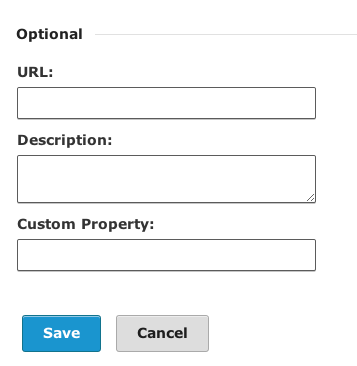
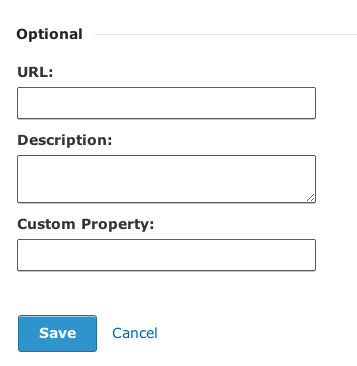
#1234, update forms page in style guide to match demo page.

Changed region(s): [[0.0924, 0.8415, 0.5854, 0.9617], [0.0308, 0.8415, 0.0924, 0.9617]]

diff --git a/forms.html b/forms.html
@@ -151,7 +151,7 @@ label {
     <h3>Top-Aligned Form</h3>
     <p>Below is the default form layout. This is a top label aligned form, where the labels are placed above the input field. See below:</p>
     <p><img src="images/forms-top-align.png" style="border: 1px solid #717171;"></p>
-    <p><a href="demo/forms-top-align.html" class="button">View Demo</a></p>
+    <p><a href="demo/forms-top-align.html">View Demo</a></p>
 
     <hr>
 
@@ -159,7 +159,7 @@ label {
     <h3>Fieldsets</h3>
     <p>Below is an example of a form placed inside a <strong>Fieldset</strong> element. This is used to create a division or space out forms from other elements or content.</p>
     <p><img src="images/forms-fieldset.png" style="border: 1px solid #717171;"></p>
-    <p><a href="demo/forms-top-align.html" class="button">View Demo</a></p>
+    <p><a href="demo/forms-top-align.html">View Demo</a></p>
 
     <hr>
 
@@ -173,7 +173,7 @@ label {
     </ul>
     <p>You attach a class of <strong>.compass-error</strong> to the individual elements: label, input, small.</p>
     <p><img src="images/forms-error-states.png" style="border: 1px solid #717171;"></p>
-    <p><a href="demo/forms-top-align.html" class="button">View Demo</a></p>
+    <p><a href="demo/forms-top-align.html">View Demo</a></p>
 
     <hr>
 

diff --git a/demo/forms-top-align.html b/demo/forms-top-align.html
@@ -767,7 +767,7 @@
 
         <br>
         <button class="primary radius button" href="petrocore-reports-new2.html">Save</button>
-        <a class=".cancel-link" href="petrocore-reports-new2.html">Cancel</a>
+        <a class="cancel-link" href="petrocore-reports-new2.html">Cancel</a>
 
       </div><!--Close Content Container-->
 
